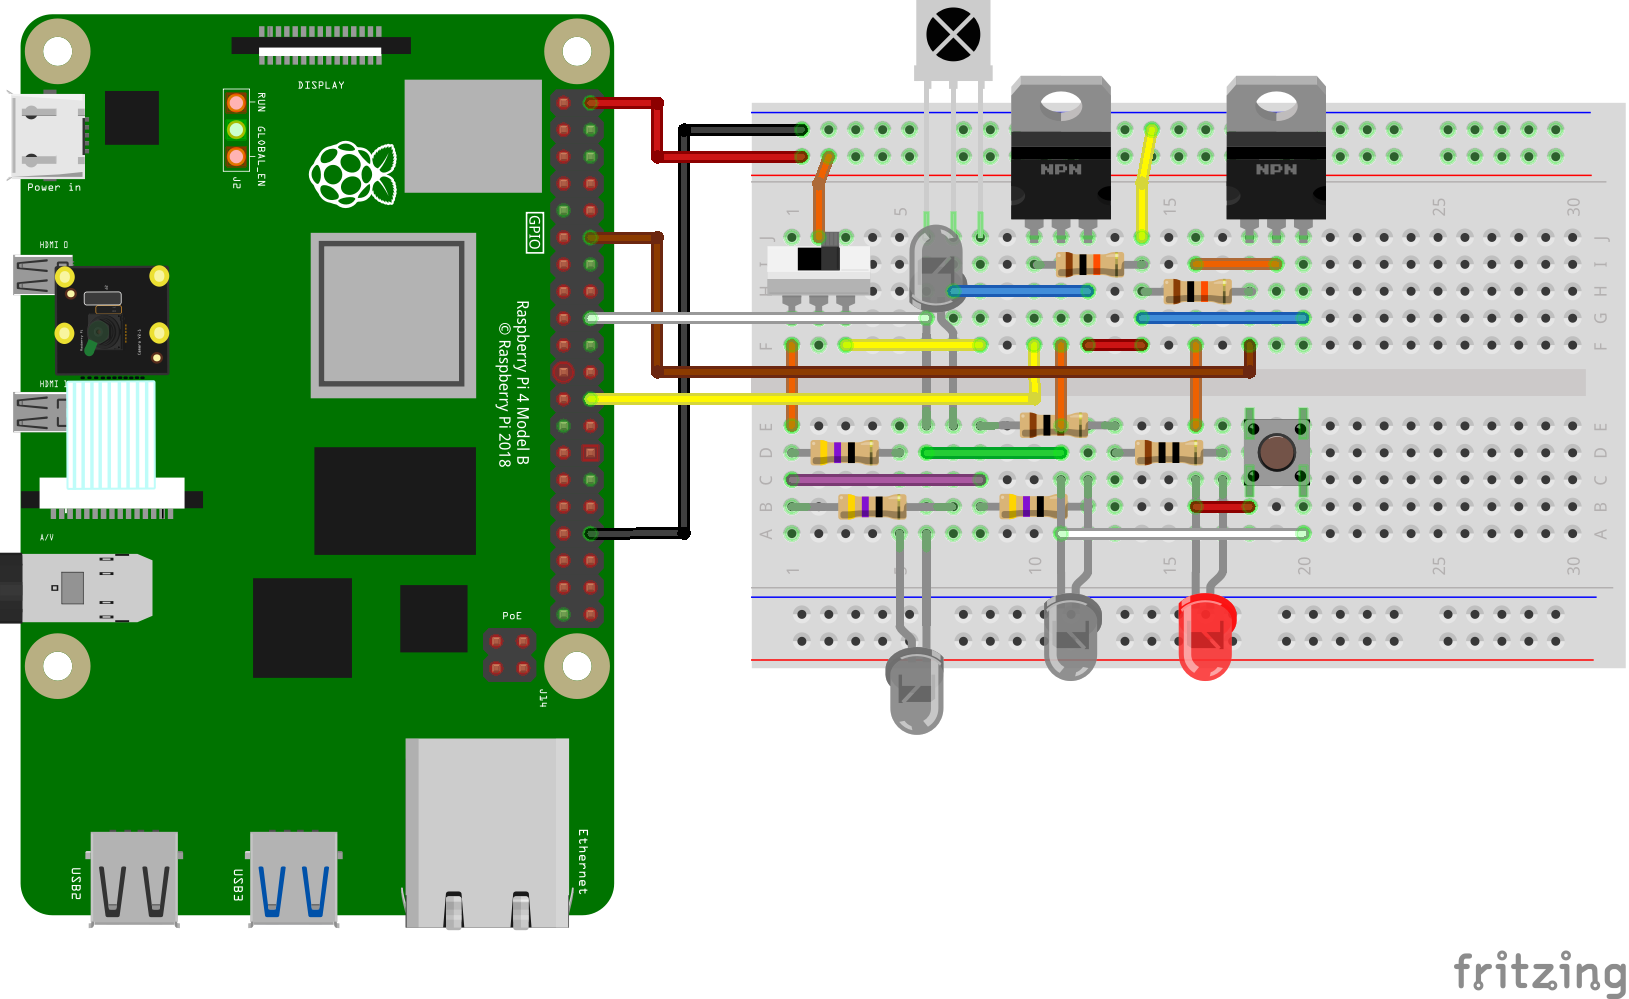
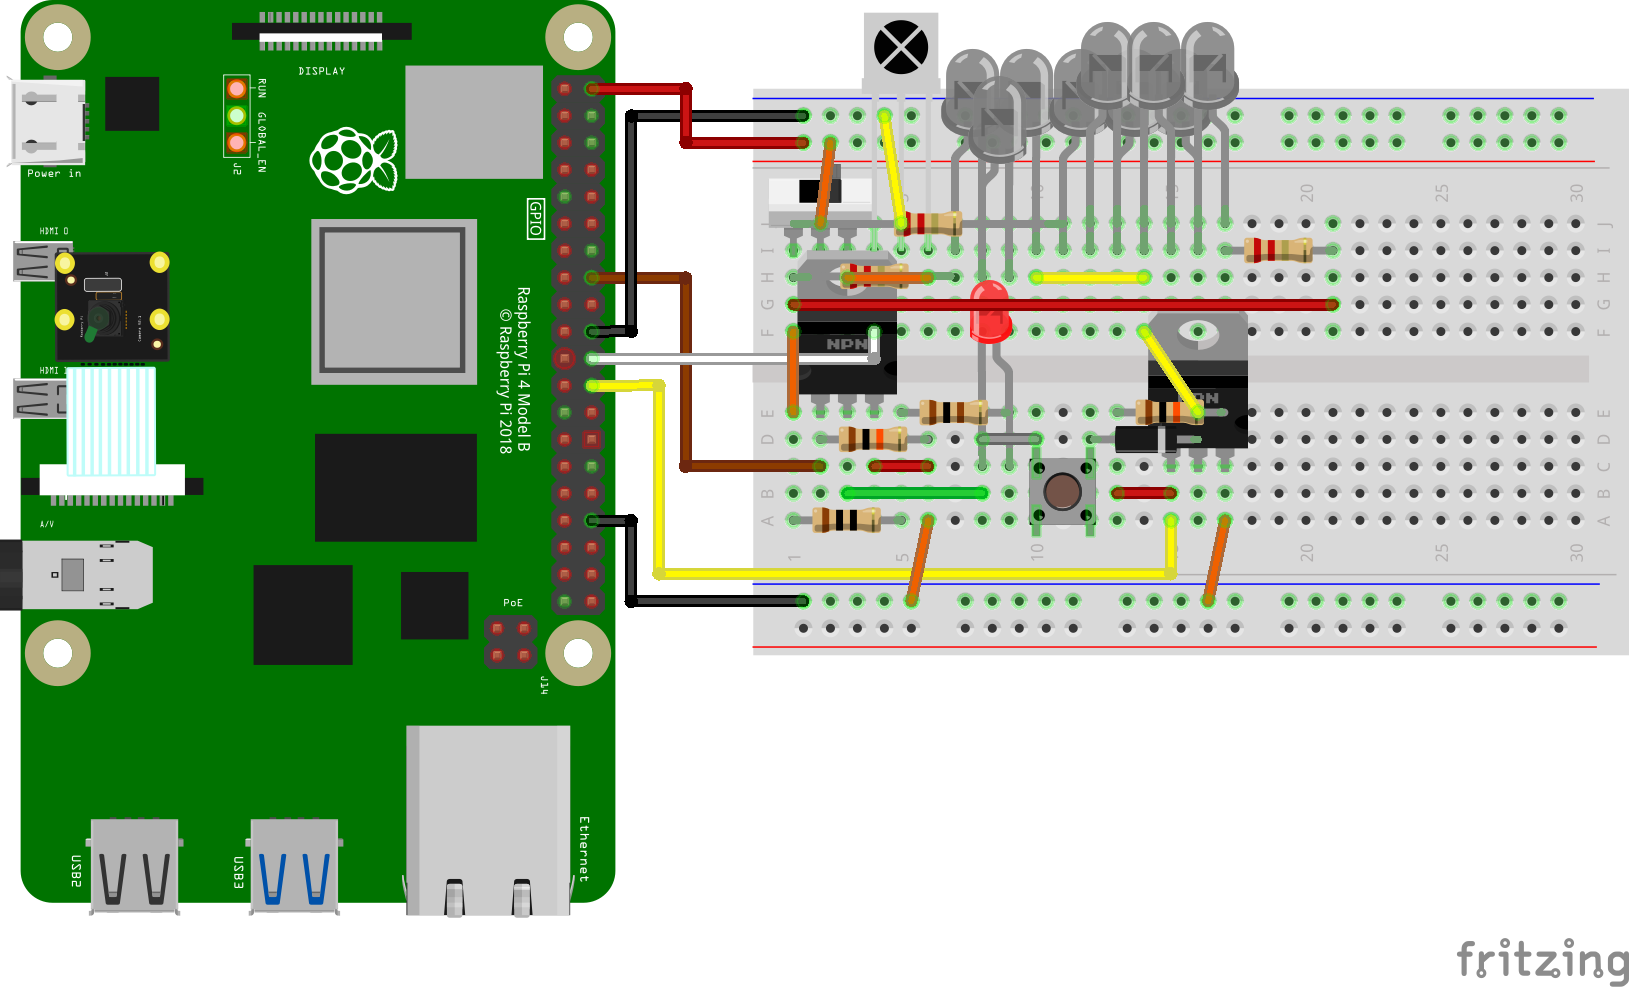
Redesigned circuit: 3 to 9 infrared LEDs, added diodes.

diff --git a/README_jp.md b/README_jp.md
@@ -6,21 +6,28 @@
 
 ## 目次
 
-1. [概要](#概要)
-2. [機能](#機能)
-3. [ハードウェア要件](#ハードウェア要件)
-   - [PiCamera2 モジュールのフィルター調整](#picamera2-モジュールのフィルター調整)
-4. [ソフトウェア要件](#ソフトウェア要件)
-5. [インストールガイド](#インストールガイド)
-6. [使用方法](#使用方法)
-7. [システムアーキテクチャ](#システムアーキテクチャ)
-8. [顔検出ソリューション](#顔検出ソリューション)
-9. [手のジェスチャー認識](#手のジェスチャー認識)
-10. [ハードウェア接続](#ハードウェア接続)
-11. [貢献](#貢献)
-12. [ライセンス](#ライセンス)
-13. [トラブルシューティング](#トラブルシューティング)
-14. [謝辞](#謝辞)
+- [InfraCamControl](#infracamcontrol)
+  - [目次](#目次)
+  - [概要](#概要)
+  - [機能](#機能)
+  - [ハードウェア要件](#ハードウェア要件)
+    - [ハードウェア図](#ハードウェア図)
+    - [PiCamera2 モジュールのフィルター調整](#picamera2-モジュールのフィルター調整)
+  - [ソフトウェア要件](#ソフトウェア要件)
+  - [インストールガイド](#インストールガイド)
+  - [使用方法](#使用方法)
+  - [システムアーキテクチャ](#システムアーキテクチャ)
+  - [顔検出ソリューション](#顔検出ソリューション)
+    - [1. OpenCV Haar Cascade](#1-opencv-haar-cascade)
+    - [2. YOLOv8](#2-yolov8)
+    - [3. Ultra-Light-Fast](#3-ultra-light-fast)
+    - [4. MediaPipe Face Mesh](#4-mediapipe-face-mesh)
+  - [手のジェスチャー認識](#手のジェスチャー認識)
+  - [ハードウェア接続](#ハードウェア接続)
+  - [貢献](#貢献)
+  - [ライセンス](#ライセンス)
+  - [トラブルシューティング](#トラブルシューティング)
+  - [謝辞](#謝辞)
 
 ---
 
@@ -48,8 +55,9 @@ InfraCamControl は、Raspberry Pi をベースにした多機能スマートカ
 
 - **Raspberry Pi** (モデル 4B)
 - **PiCamera2** (OV5647 IR-CUT)
-- **赤外線 LED エミッター** (OSI5LA5A33A-B 940nm) ×3
+- **赤外線 LED エミッター** (OSI5LA5A33A-B 940nm) ×9
 - **赤色 LED インジケータライト** (2.3V, 25mA)
+- **ダイオード**（1N5819）
 - **赤外線受信モジュール** (OSRB38C9AA)
 - **N チャンネル MOSFET** (2SK2232) ×2
 - **スライドスイッチ**

diff --git a/README.md b/README.md
@@ -6,21 +6,28 @@
 
 ## Table of Contents
 
-1. [Overview](#overview)
-2. [Features](#features)
-3. [Hardware Requirements](#hardware-requirements)
-   - [PiCamera2 Module Filter Adjustment](#picamera2-module-filter-adjustment)
-4. [Software Requirements](#software-requirements)
-5. [Installation Guide](#installation-guide)
-6. [Usage Instructions](#usage-instructions)
-7. [System Architecture](#system-architecture)
-8. [Face Detection Solutions](#face-detection-solutions)
-9. [Hand Gesture Recognition](#hand-gesture-recognition)
-10. [Hardware Connections](#hardware-connections)
-11. [Contributing](#contributing)
-12. [License](#license)
-13. [Troubleshooting](#troubleshooting)
-14. [Acknowledgments](#acknowledgments)
+- [InfraCamControl](#infracamcontrol)
+  - [Table of Contents](#table-of-contents)
+  - [Overview](#overview)
+  - [Features](#features)
+  - [Hardware Requirements](#hardware-requirements)
+    - [Hardware Diagram](#hardware-diagram)
+    - [PiCamera2 Module Filter Adjustment](#picamera2-module-filter-adjustment)
+  - [Software Requirements](#software-requirements)
+  - [Installation Guide](#installation-guide)
+  - [Usage Instructions](#usage-instructions)
+  - [System Architecture](#system-architecture)
+  - [Face Detection Solutions](#face-detection-solutions)
+    - [1. OpenCV Haar Cascade](#1-opencv-haar-cascade)
+    - [2. YOLOv8](#2-yolov8)
+    - [3. Ultra-Light-Fast](#3-ultra-light-fast)
+    - [4. MediaPipe Face Mesh](#4-mediapipe-face-mesh)
+  - [Hand Gesture Recognition](#hand-gesture-recognition)
+  - [Hardware Connections](#hardware-connections)
+  - [Contributing](#contributing)
+  - [License](#license)
+  - [Troubleshooting](#troubleshooting)
+  - [Acknowledgments](#acknowledgments)
 
 ---
 
@@ -48,8 +55,9 @@ InfraCamControl is a multifunctional smart camera control system based on Raspbe
 
 - **Raspberry Pi** (Model 4B)
 - **PiCamera2** (OV5647 IR-CUT)
-- **Infrared LED Emitters** (OSI5LA5A33A-B 940nm) ×3
+- **Infrared LED Emitters** (OSI5LA5A33A-B 940nm) ×9
 - **Red LED Indicator Light** (2.3V, 25mA)
+- **Diode** (1N5819)
 - **Infrared Receiver Module** (OSRB38C9AA)
 - **N-channel MOSFETs** (2SK2232) ×2
 - **Slide Switch**
